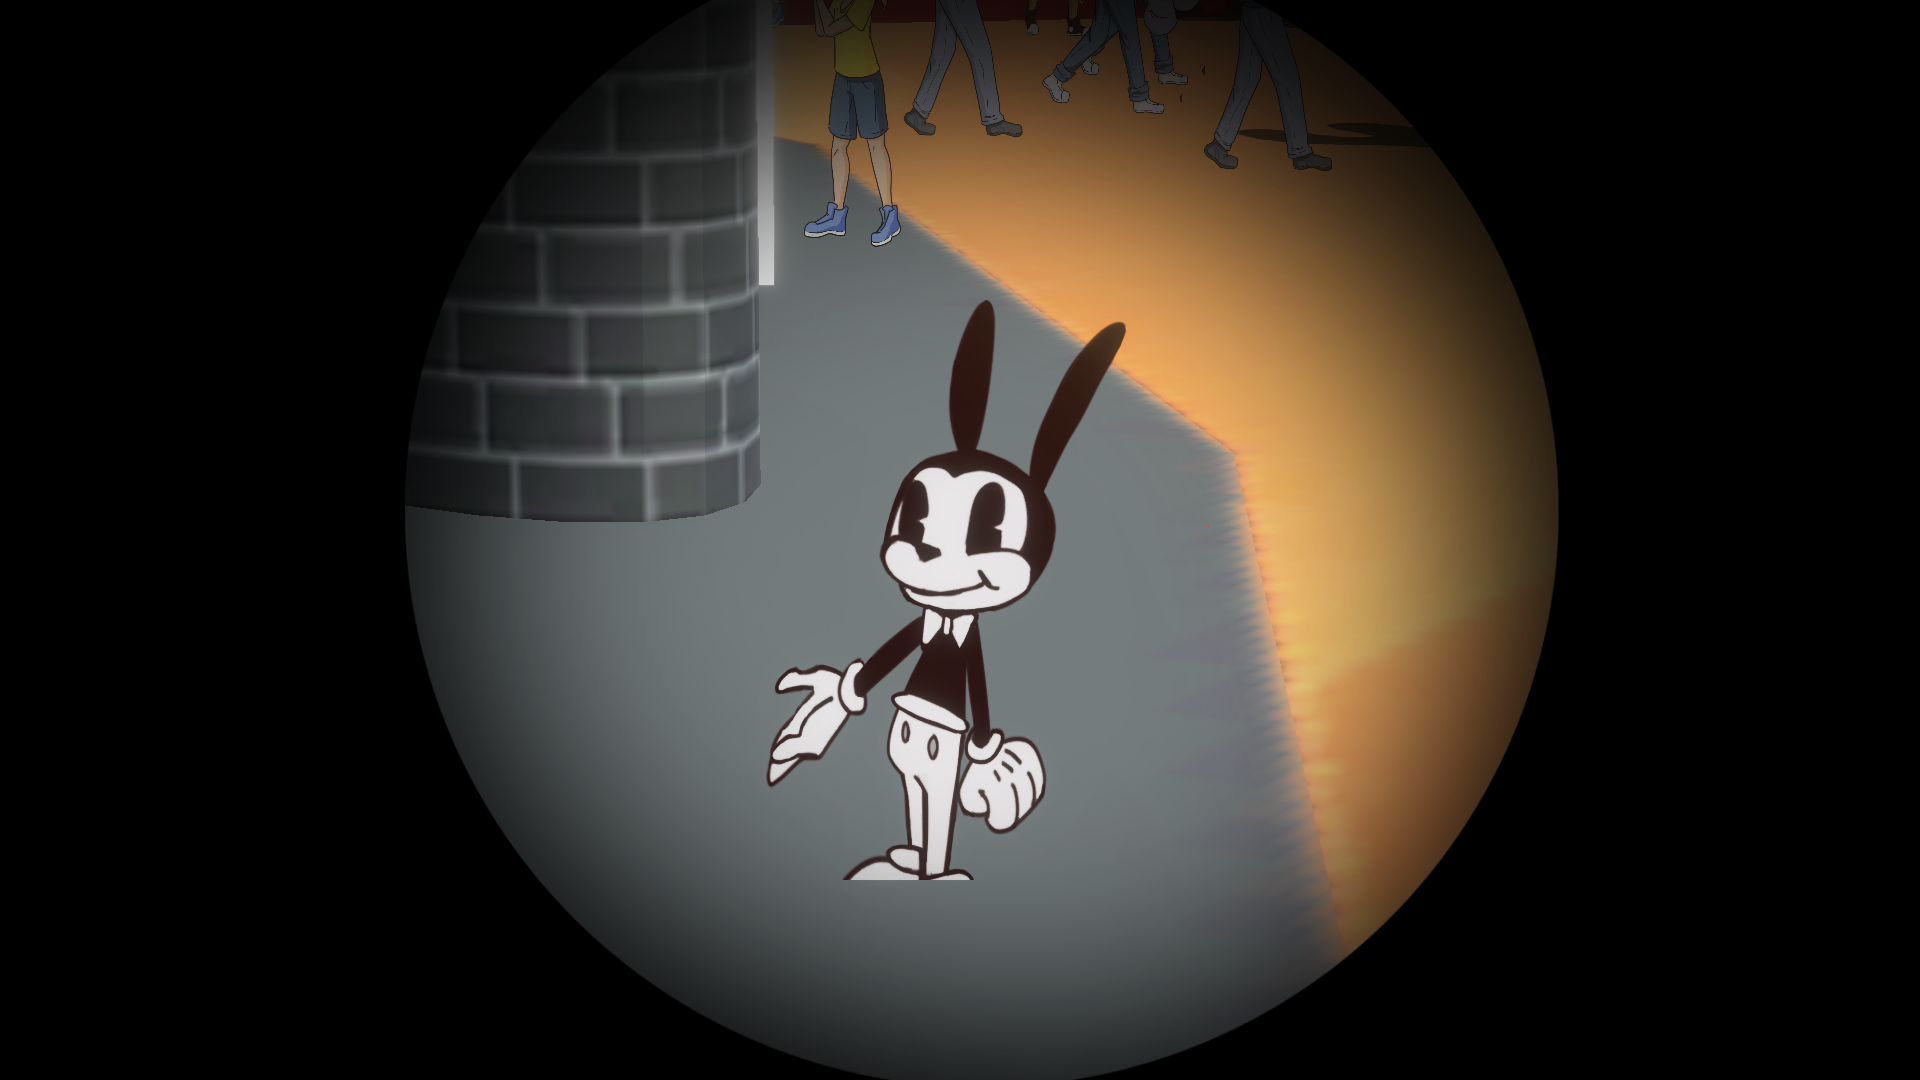
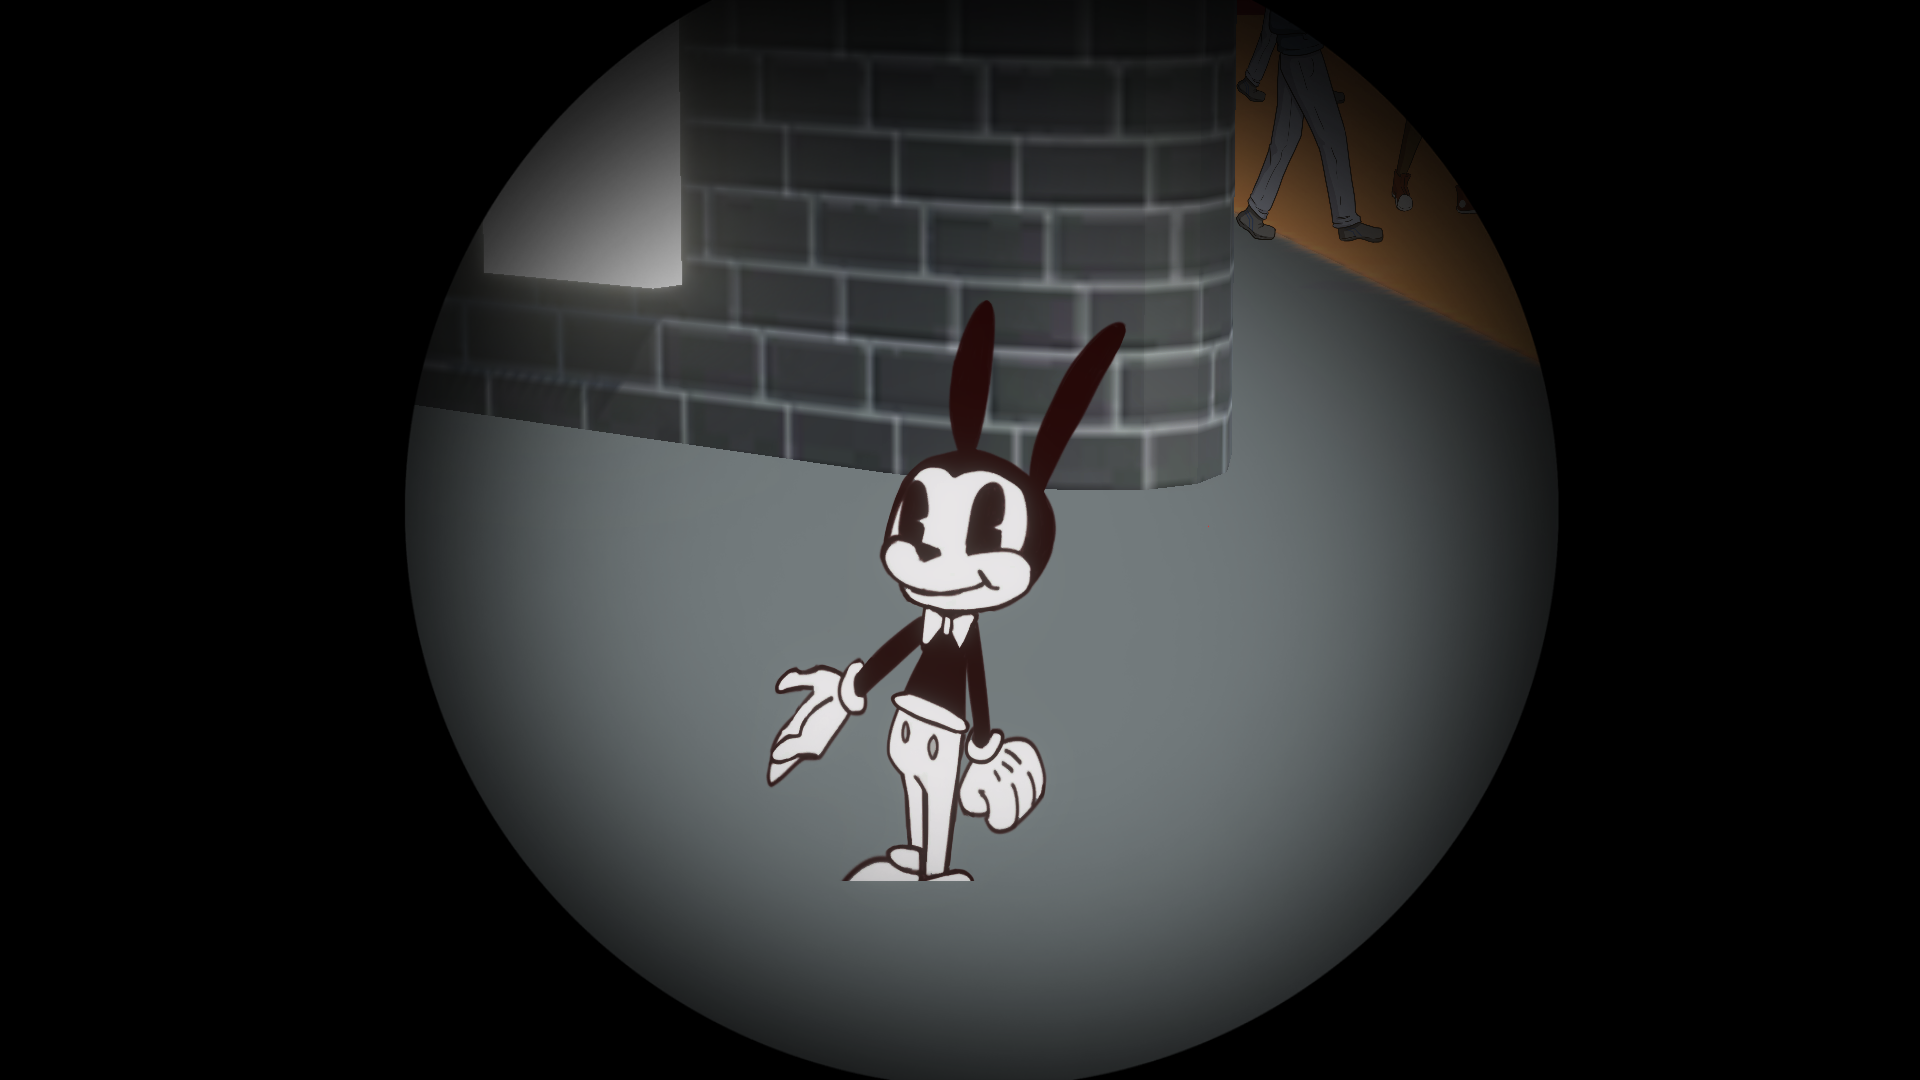
fix scope

Changed region(s): [[0.2188, 0.0, 0.8125, 0.8861]]

diff --git a/Assets/Script/Camera/CameraControl.cs b/Assets/Script/Camera/CameraControl.cs
@@ -71,13 +71,13 @@ public class CameraControl : MonoBehaviour
                 HandleZoom();
             }
         }
-        if (m_Camera.fieldOfView <= 55)
+        if (m_Camera.fieldOfView <= 55 && !screenshotTarget.GetIsOnTarget())
         {
-            m_Scope.SetActive(true);
+            SetScope(true);
         }
         else
         {
-            m_Scope.SetActive(false);
+            SetScope(false);
         }
     }
 
@@ -85,6 +85,11 @@ public class CameraControl : MonoBehaviour
     {
         Vector3 newPosition = transform.position + moveVelocity * Time.fixedDeltaTime;
         m_Camera.transform.position = newPosition;
+    }
+
+    public void SetScope(bool scopeStatus)
+    {
+        m_Scope.SetActive(scopeStatus);
     }
 
     public void CheckZoom()

diff --git a/Assets/Script/Camera/ScreenshotTarget.cs b/Assets/Script/Camera/ScreenshotTarget.cs
@@ -39,6 +39,7 @@ public class ScreenshotTarget : MonoBehaviour
         if (target)
         {
             isOnTarget = true;
+            cameraControl.SetScope(false);
             DisableObjectsBetweenCameraAndTargetObject();
             yield return new WaitForEndOfFrame();
             ScreenCapture.CaptureScreenshot(filename);
